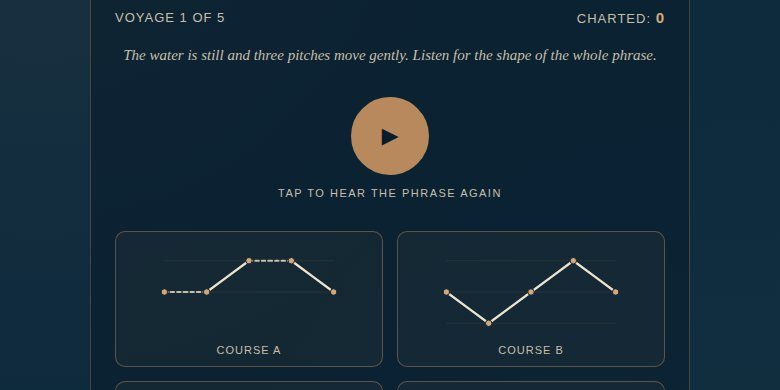
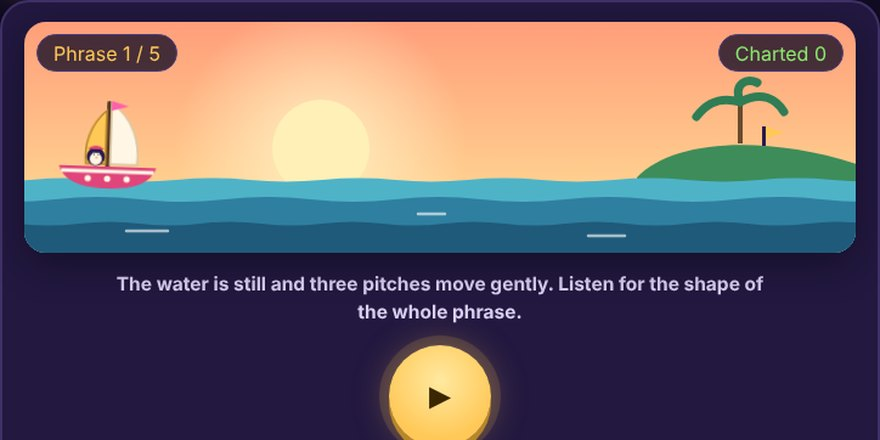
Restyle Charting the Melody to match the newer games
House style (night purple chrome, Bungee/Lilita One/Nunito, gold play
button), animated sea scene per voyage with a sailboat that advances on
each correct answer, contour options as cream sea-chart cards. Game
logic unchanged; em dashes removed from wording. Updated card screenshot.

Claude-Session: https://claude.ai/code/session_01Vt89E4KrajVwQZ7JitHWqg

diff --git a/games/charting-the-melody.html b/games/charting-the-melody.html
@@ -326,6 +326,104 @@
     .chart-panel { padding: 22px 16px 20px; }
   }
 </style>
+<link rel="preconnect" href="https://fonts.googleapis.com">
+<link rel="preconnect" href="https://fonts.gstatic.com" crossorigin>
+<link href="https://fonts.googleapis.com/css2?family=Bungee&family=Lilita+One&family=Nunito:wght@400;600;700;800;900&display=swap" rel="stylesheet">
+<style id="lum-house-style">
+:root{
+  --night:#120C24;--panel:#221840;--panel-2:#2C1F52;--line:#3F3168;
+  --ink-l:#F7EEDC;--ink-dim:#B3A7D1;--paper:#FFF6E6;--paper-ink:#2A1B4A;--paper-edge:#D9C7A3;
+  --lily:#8BEA6E;--gold:#FFC857;--pink:#FF5FA8;--orange:#FFA45B;--cyan:#6FE3FF;
+  --arcade:'Bungee','Lilita One',Impact,system-ui,sans-serif;
+  --display:'Lilita One','Arial Rounded MT Bold',system-ui,sans-serif;
+  --body:'Nunito',system-ui,-apple-system,'Segoe UI',sans-serif;
+  /* old variable names, remapped so inline SVG keeps working */
+  --brass:#2A1B4A;--brass-bright:#FFC857;--parchment:#2A1B4A;--parchment-soft:#8F7FB5;--navy-deep:#2A1B4A;
+}
+body{background:radial-gradient(ellipse at 50% -15%,#2C1F52 0%,#120C24 58%) fixed,#120C24 !important;color:var(--ink-l);font-family:var(--body) !important}
+.wrap{max-width:760px !important;padding:30px 18px 60px !important}
+.site-back{position:fixed;top:14px;left:14px;z-index:9999;font:800 13px/1 var(--body);color:var(--ink-dim);text-decoration:none;background:rgba(18,12,36,.8);border:1px solid var(--line);border-radius:999px;padding:8px 14px}
+.site-back:hover{color:var(--ink-l)}
+
+.masthead{border:0 !important;padding:0 !important;margin:10px 0 18px !important}
+.masthead .eyebrow{font-family:var(--body);font-weight:900;font-size:12px;letter-spacing:.32em !important;color:var(--cyan) !important;text-shadow:0 0 12px rgba(111,227,255,.5)}
+.masthead h1{font-family:var(--arcade) !important;font-weight:400 !important;font-size:clamp(34px,6.4vw,58px) !important;line-height:.95;margin:8px 0 6px !important;background:linear-gradient(180deg,#FFF1B8 0%,#FFC857 50%,#FF9A3D 100%);-webkit-background-clip:text;background-clip:text;color:transparent !important;filter:drop-shadow(0 4px 0 #1B0F3A) drop-shadow(0 0 18px rgba(255,200,87,.35))}
+.masthead h1 span{display:block;font-size:.62em;background:linear-gradient(180deg,#D9FBFF 0%,#6FE3FF 50%,#4FA3FF 100%);-webkit-background-clip:text;background-clip:text}
+.masthead .sub{color:var(--ink-dim);font-size:15px;margin:0}
+
+.level-rail{display:grid !important;grid-template-columns:repeat(4,1fr);gap:10px !important;margin-bottom:16px !important}
+.level-pip{min-width:0 !important;background:var(--panel-2) !important;border:2px solid var(--line) !important;border-radius:16px !important;padding:10px 12px !important;color:var(--ink-l);font-family:var(--body)}
+.level-pip .lvl-num{font-family:var(--arcade);font-size:10px !important;letter-spacing:.08em !important;color:var(--cyan) !important;opacity:1 !important}
+.level-pip .lvl-name{font-family:var(--display) !important;font-weight:400 !important;font-size:16px !important;color:var(--ink-l) !important}
+.level-pip.active{border-color:var(--gold) !important;box-shadow:0 10px 26px -8px rgba(255,200,87,.7)}
+.level-pip.locked{opacity:.45 !important}
+.level-pip .charted-mini{background:var(--lily) !important;color:#14361A !important;border:2px solid var(--night) !important}
+
+.chart-panel{background:var(--panel) !important;border:2px solid var(--line) !important;border-radius:24px !important;padding:16px 18px 22px !important;box-shadow:0 20px 60px rgba(0,0,0,.45)}
+
+/* sea scene */
+.sea{position:relative;height:190px;border-radius:18px;overflow:hidden;margin:0 0 14px;box-shadow:inset 0 0 0 2px rgba(255,255,255,.06),0 10px 30px rgba(0,0,0,.35)}
+.sea svg.scene{position:absolute;inset:0;width:100%;height:100%;display:block}
+.sea .hud{position:absolute;top:10px;left:10px;right:10px;display:flex;justify-content:space-between;gap:8px;z-index:4}
+.sea .pill{background:rgba(18,12,36,.78);border:1px solid #4A3B7C;color:var(--ink-l);font-family:var(--display);font-size:16px;padding:5px 13px 4px;border-radius:999px}
+.sea .pill.gold{color:var(--gold)}
+.sea .pill.lily{color:var(--lily)}
+.boat{position:absolute;bottom:22%;z-index:3;width:92px;transform:translateX(-50%);transition:left 1.1s cubic-bezier(.45,.05,.35,1)}
+.boat svg{display:block;width:100%;height:auto;animation:bob 2.6s ease-in-out infinite;transform-origin:50% 90%}
+@keyframes bob{0%,100%{transform:translateY(0) rotate(-2deg)}50%{transform:translateY(-5px) rotate(2deg)}}
+.wave-a{animation:swell 6s ease-in-out infinite alternate}
+.wave-b{animation:swell 8s ease-in-out infinite alternate-reverse}
+@keyframes swell{from{transform:translateX(-24px)}to{transform:translateX(24px)}}
+.twinkle{animation:tw 3s ease-in-out infinite}
+@keyframes tw{0%,100%{opacity:.25}50%{opacity:1}}
+.beam{animation:beam 4s ease-in-out infinite}
+@keyframes beam{0%,100%{opacity:.35}50%{opacity:1}}
+
+/* text + controls */
+.stat-row{display:none !important}
+.chart-brief{font-family:var(--body) !important;font-style:normal !important;font-weight:700;color:#D9CFF0 !important;font-size:15.5px !important;margin:4px auto 14px !important;max-width:560px}
+.briefing-label{color:var(--ink-dim) !important;font-weight:700}
+.ref-chip{background:var(--paper) !important;color:var(--paper-ink) !important;border:0 !important;font-family:var(--display);font-weight:400 !important;font-size:17px !important;padding:9px 20px 7px !important;box-shadow:0 4px 0 var(--paper-edge)}
+.ref-chip:hover{background:#FFF1BF !important}
+.ref-chip:active{transform:translateY(3px);box-shadow:0 1px 0 var(--paper-edge)}
+.listen-zone{padding:2px 0 14px !important;gap:8px !important}
+.play-btn{width:84px !important;height:84px !important;border:0 !important;background:radial-gradient(circle at 50% 35%,#FFE9A0,#FFC857 70%) !important;color:#3A2600 !important;font-size:30px !important;box-shadow:0 6px 0 #B8862A,0 0 0 8px rgba(255,200,87,.14),0 0 30px rgba(255,200,87,.35) !important}
+.play-btn:hover{background:radial-gradient(circle at 50% 35%,#FFF1BF,#FFD67A 70%) !important;color:#3A2600 !important}
+.play-btn:active{transform:translateY(4px) !important;box-shadow:0 2px 0 #B8862A !important}
+.play-label{font-family:var(--display);text-transform:none !important;letter-spacing:.01em !important;font-size:16px !important;color:var(--ink-dim) !important}
+
+/* contour cards: cream sea-chart paper */
+.contour-grid{gap:14px !important}
+.contour-card{position:relative;background:var(--paper) !important;border:3px solid transparent !important;border-radius:18px !important;box-shadow:0 5px 0 var(--paper-edge);padding:26px 10px 10px !important;overflow:hidden}
+.contour-card::before{content:"";position:absolute;inset:0;background:
+   repeating-linear-gradient(0deg,rgba(79,163,255,.07) 0 1px,transparent 1px 18px),
+   repeating-linear-gradient(90deg,rgba(79,163,255,.07) 0 1px,transparent 1px 18px);pointer-events:none}
+.contour-card:hover:not(.locked-card){transform:translateY(-3px) !important;background:#FFFBF1 !important;border-color:var(--gold) !important}
+.contour-card svg{position:relative}
+.contour-card .card-label{position:absolute;top:8px;left:10px;font-family:var(--arcade) !important;font-size:11px !important;letter-spacing:.06em !important;color:#fff !important;background:var(--paper-ink);border-radius:7px;padding:3px 8px 1px}
+.contour-card.selected{border-color:var(--gold) !important}
+.contour-card.correct-card{border-color:#3FBF6A !important;background:#ECFCE6 !important;box-shadow:0 5px 0 #8FD39E,0 0 0 4px rgba(139,234,110,.3)}
+.contour-card.correct-card .card-label{background:#23854A}
+.contour-card.wrong-card{border-color:#E0457B !important;background:#FFEDF2 !important;box-shadow:0 5px 0 #F2A7BF}
+.contour-card.wrong-card .card-label{background:#D2386C}
+.contour-card.correct-card::after{content:"✓";position:absolute;top:4px;right:10px;font:400 22px var(--display);color:#23854A}
+.contour-card.wrong-card::after{content:"✕";position:absolute;top:4px;right:10px;font:400 20px var(--display);color:#D2386C}
+
+.feedback-line{font-family:var(--display);font-style:normal !important;font-size:20px !important;color:var(--ink-l) !important;margin-top:10px !important}
+.feedback-line.good{color:var(--lily) !important}
+.feedback-line.bad{color:#FF8FB8 !important}
+button.chart-btn{font-family:var(--display) !important;font-weight:400 !important;font-size:19px !important;text-transform:none !important;letter-spacing:.01em !important;border-radius:999px !important;padding:12px 30px 10px !important;background:linear-gradient(180deg,#FFE9A0,#FFC857) !important;color:#3A2600 !important;box-shadow:0 5px 0 #B8862A,0 0 24px rgba(255,200,87,.25)}
+button.chart-btn:hover{background:linear-gradient(180deg,#FFF1BF,#FFD67A) !important}
+button.chart-btn:active{transform:translateY(3px) !important;box-shadow:0 2px 0 #B8862A}
+button.chart-btn.ghost{background:#3A2C62 !important;color:var(--ink-l) !important;box-shadow:0 4px 0 #0b0717}
+#setSailBtn{font-family:var(--arcade) !important;font-size:20px !important;letter-spacing:.05em !important;width:auto !important;padding:13px 40px 10px !important}
+.log-complete h2{font-family:var(--arcade) !important;font-weight:400;color:var(--gold) !important;font-size:30px !important;text-shadow:0 4px 0 #1B0F3A}
+.log-complete p{color:#D9CFF0 !important}
+.footer-note{color:var(--ink-dim) !important;opacity:1 !important}
+@media (max-width:560px){.level-rail{grid-template-columns:repeat(2,1fr)}.sea{height:160px}.boat{width:74px}}
+@media (prefers-reduced-motion:reduce){.boat svg,.wave-a,.wave-b,.twinkle,.beam{animation:none}}
+</style>
+
 <!-- SEO -->
 <link rel="canonical" href="https://levelupmusicianship.com/games/charting-the-melody">
 <meta property="og:type" content="website">
@@ -374,17 +472,19 @@
 <!-- /SEO -->
 </head>
 <body>
-<a href="../games.html" style="position:fixed;top:14px;left:14px;z-index:9999;font-family:'Source Sans 3',sans-serif;font-size:13px;font-weight:600;color:#fff;background:rgba(0,0,0,0.45);padding:7px 14px;border-radius:100px;text-decoration:none;backdrop-filter:blur(4px);">&larr; Level Up Musicianship</a>
+<a class="site-back" href="../games.html">&larr; Level Up Musicianship</a>
 <div class="wrap">
 
   <div class="masthead">
-    <p class="eyebrow">A melodic dictation voyage</p>
-    <h1>Charting the Melody</h1>
+    <p class="eyebrow">Melodic contour &middot; Year 8</p>
+    <h1>Charting<span>the Melody</span></h1>
+    <p class="sub">Hear the phrase, then pick the course that matches its shape.</p>
   </div>
 
   <div class="level-rail" id="levelRail"></div>
 
   <div class="chart-panel" id="chartPanel">
+    <div class="sea" id="seaScene"></div>
     <div class="stat-row" id="statRow" style="display:none;">
       <span id="statLeft">Voyage 1 of 5</span>
       <span>Charted: <span class="score-num" id="scoreNum">0</span></span>
@@ -419,7 +519,7 @@
     </div>
   </div>
 
-  <p class="footer-note">Synthesised tones &mdash; no files, no installs.<br>A companion piece to Chord Detectives in the Level Up Musicianship library.</p>
+  <p class="footer-note">Synthesised tones. No files, no installs.<br>A companion piece to Chord Detectives in the Level Up Musicianship library.</p>
 
 </div>
 
@@ -485,12 +585,12 @@
     {
       id: 3, name: 'Reading the Stars', voyages: 6,
       scale: 'pentatonic', order: ['d','r','m','s','l'], noteCount: 6,
-      brief: 'A longer course to chart \u2014 now five different pitches, but more moves to follow in one phrase.'
+      brief: 'A longer course to chart. Now five different pitches, but more moves to follow in one phrase.'
     },
     {
       id: 4, name: 'Open Ocean', voyages: 8,
       scale: 'diatonic', order: ['d','r','m','f','s','l','t','d2'], noteCount: 6,
-      brief: 'Full open water, chart your course with all eight pitches. Some dots will sit close together \u2014 listen carefully to the distance between notes, don\u2019t let your eye get tricked.'
+      brief: 'Full open water, chart your course with all eight pitches. Some dots will sit close together, so listen carefully to the distance between notes, don\u2019t let your eye get tricked.'
     }
   ];
 
@@ -699,7 +799,7 @@
       seenLevels.add(val);
       const norm = (val - minH) / range;
       const y = (h - padY) - norm * (h - padY * 2);
-      gridlines += `<line x1="${padX}" y1="${y.toFixed(1)}" x2="${w - padX}" y2="${y.toFixed(1)}" stroke="var(--brass)" stroke-width="1" opacity="0.12"/>`;
+      gridlines += `<line x1="${padX}" y1="${y.toFixed(1)}" x2="${w - padX}" y2="${y.toFixed(1)}" stroke="#4FA3FF" stroke-width="1" opacity="0.35" stroke-dasharray="2,4"/>`;
     });
 
     // every segment is either "held" (same pitch, dashed) or "moved"
@@ -713,15 +813,15 @@
       const isSame = label === 'same';
       const mx = (x0 + x1) / 2, my = (y0 + y1) / 2;
       let stroke, width, dash;
-      if (isSame) { stroke = 'var(--parchment-soft)'; width = 2; dash = '4,3'; }
-      else { stroke = 'var(--parchment)'; width = 2.5; dash = 'none'; }
+      if (isSame) { stroke = '#8F7FB5'; width = 3; dash = '5,4'; }
+      else { stroke = '#2A1B4A'; width = 3.5; dash = 'none'; }
       const dashAttr = dash !== 'none' ? ` stroke-dasharray="${dash}"` : '';
       segments += `<path d="M ${x0.toFixed(1)} ${y0.toFixed(1)} Q ${x0.toFixed(1)} ${y0.toFixed(1)} ${mx.toFixed(1)} ${my.toFixed(1)} Q ${x1.toFixed(1)} ${y1.toFixed(1)} ${x1.toFixed(1)} ${y1.toFixed(1)}" fill="none" stroke="${stroke}" stroke-width="${width}" stroke-linecap="round"${dashAttr}/>`;
     }
 
     let dots = '';
     pts.forEach(p => {
-      dots += `<circle cx="${p[0].toFixed(1)}" cy="${p[1].toFixed(1)}" r="3.5" fill="var(--brass-bright)" stroke="var(--navy-deep)" stroke-width="1"/>`;
+      dots += `<circle cx="${p[0].toFixed(1)}" cy="${p[1].toFixed(1)}" r="5.5" fill="#FFC857" stroke="#2A1B4A" stroke-width="2"/>`;
     });
 
     return `<svg viewBox="0 0 ${w} ${h}" xmlns="http://www.w3.org/2000/svg">
@@ -729,6 +829,77 @@
       ${segments}
       ${dots}
     </svg>`;
+  }
+
+
+  /* ===== house-style sea scene ===== */
+  const seaEl = document.getElementById('seaScene');
+  let charted = 0;
+  function seaSVG(levelIdx){
+    const P = [
+      {s1:'#FF9E7A',s2:'#FFCF8F',s3:'#FFE9B8',sea1:'#4FB3C8',sea2:'#2F7FA0',sea3:'#1F5A7A',isl:'#3E8C5A',sun:'day'},
+      {s1:'#5EC3E8',s2:'#A8E3F0',s3:'#E9F8F6',sea1:'#3C9CC4',sea2:'#2A73A0',sea3:'#1B4E78',isl:'#3E8C5A',sun:'noon'},
+      {s1:'#120C24',s2:'#2C1F52',s3:'#4A2F6B',sea1:'#2B3F7A',sea2:'#1E2C5E',sea3:'#141E44',isl:'#1E2C3E',sun:'stars'},
+      {s1:'#0B0A1E',s2:'#1C1A44',s3:'#2E2B66',sea1:'#24356E',sea2:'#18244F',sea3:'#0F183A',isl:'#18223A',sun:'light'}
+    ][levelIdx] || null;
+    const c = P;
+    let o = `<svg class="scene" viewBox="0 0 1000 190" preserveAspectRatio="xMaxYMax slice" xmlns="http://www.w3.org/2000/svg">
+      <defs><linearGradient id="sk" x1="0" y1="0" x2="0" y2="1"><stop offset="0" stop-color="${c.s1}"/><stop offset=".7" stop-color="${c.s2}"/><stop offset="1" stop-color="${c.s3}"/></linearGradient>
+      <linearGradient id="bm" x1="1" y1="0" x2="0" y2="0"><stop offset="0" stop-color="#FFF4C8" stop-opacity=".55"/><stop offset="1" stop-color="#FFF4C8" stop-opacity="0"/></linearGradient><radialGradient id="gl"><stop offset="0" stop-color="#FFF4C8" stop-opacity=".9"/><stop offset="1" stop-color="#FFF4C8" stop-opacity="0"/></radialGradient></defs>
+      <rect width="1000" height="190" fill="url(#sk)"/>`;
+    if (c.sun === 'day') o += `<circle cx="560" cy="104" r="120" fill="url(#gl)"/><circle cx="560" cy="104" r="40" fill="#FFF0B8"/>`;
+    if (c.sun === 'noon') o += `<circle cx="520" cy="44" r="90" fill="url(#gl)"/><circle cx="520" cy="44" r="26" fill="#FFF6CF"/><g fill="#fff" opacity=".85"><ellipse cx="700" cy="60" rx="56" ry="13"/><ellipse cx="735" cy="50" rx="34" ry="13"/><ellipse cx="380" cy="70" rx="44" ry="10"/></g>`;
+    if (c.sun === 'stars' || c.sun === 'light') {
+      let seed = 7 + levelIdx;
+      const rnd = () => (seed = (seed * 9301 + 49297) % 233280) / 233280;
+      for (let k = 0; k < 40; k++) o += `<circle class="twinkle" style="animation-delay:${(-rnd()*3).toFixed(2)}s" cx="${(rnd()*1000).toFixed(0)}" cy="${(rnd()*100).toFixed(0)}" r="${(rnd()*1.4+.5).toFixed(1)}" fill="#FFF6E6"/>`;
+      if (c.sun === 'stars') o += `<g stroke="#6FE3FF" stroke-width="1.2" opacity=".55" fill="#BFF4FF"><path d="M440,40 L480,30 L520,50 L560,38 L592,62" fill="none"/><circle cx="440" cy="40" r="2.6"/><circle cx="480" cy="30" r="2.6"/><circle cx="520" cy="50" r="2.6"/><circle cx="560" cy="38" r="2.6"/><circle cx="592" cy="62" r="2.6"/></g><circle cx="740" cy="64" r="60" fill="url(#gl)" opacity=".25"/><path d="M748,47 A18,18 0 1 0 757,74 A15,15 0 1 1 748,47Z" fill="#FFF1C4"/>`;
+    }
+    // goal island
+    o += `<path d="M820,128 C850,96 930,92 1010,120 L1010,140 L820,140Z" fill="${c.isl}"/>`;
+    if (c.sun === 'light') o += `<g transform="translate(910 62)"><path class="beam" d="M0,-2 L-300,-40 L-300,36Z" fill="url(#bm)"/><rect x="-7" y="0" width="14" height="44" fill="#F2E6D8"/><rect x="-7" y="10" width="14" height="6" fill="#E0457B"/><rect x="-7" y="26" width="14" height="6" fill="#E0457B"/><rect x="-10" y="-8" width="20" height="9" rx="2" fill="#2A1B4A"/><circle cx="0" cy="-4" r="4" fill="#FFE27A"/></g>`;
+    else o += `<g transform="translate(905 100)"><rect x="-2" y="-34" width="4" height="34" fill="#6A4A2E"/><path d="M0,-34 C-20,-40 -30,-30 -36,-22 M0,-34 C18,-44 30,-36 36,-26 M0,-34 C-6,-50 6,-54 14,-50" stroke="#2F7D55" stroke-width="7" fill="none" stroke-linecap="round"/><rect x="18" y="-14" width="3" height="16" fill="#2A1B4A"/><path d="M21,-14 L36,-9 L21,-4Z" fill="#FFC857"/></g>`;
+    // sea layers
+    const amp = levelIdx === 0 ? 4 : levelIdx === 1 ? 9 : 7;
+    const wave = (y, a, len) => { let d = `M-60,${y}`; for (let x = -60; x < 1080; x += len) d += ` q${len/4},${-a} ${len/2},0 t${len/2},0`; return d + ` L1080,190 L-60,190Z`; };
+    o += `<path class="wave-b" d="${wave(130, amp*.7, 120)}" fill="${c.sea1}"/>`;
+    o += `<path class="wave-a" d="${wave(146, amp, 140)}" fill="${c.sea2}"/>`;
+    o += `<path class="wave-b" d="${wave(166, amp*.8, 100)}" fill="${c.sea3}"/>`;
+    o += `<g stroke="#fff" stroke-width="2.5" stroke-linecap="round" opacity="${c.sun === 'stars' || c.sun === 'light' ? .25 : .6}"><path d="M120,156 h26 M400,172 h34 M640,158 h22 M780,176 h30"/></g>`;
+    return o + `</svg>`;
+  }
+  function boatSVG(night){
+    return `<svg viewBox="0 0 92 84" xmlns="http://www.w3.org/2000/svg">
+      <rect x="44" y="6" width="3.5" height="56" rx="1.5" fill="#5B3A29"/>
+      <path d="M48,8 C66,20 72,40 70,58 L48,58Z" fill="#FFF6E6" stroke="#D9C7A3" stroke-width="1.5"/>
+      <path d="M44,14 C30,26 26,44 28,58 L44,58Z" fill="#FFC857" stroke="#B8862A" stroke-width="1.5"/>
+      <path d="M48,6 L62,10 L48,14Z" fill="#FF5FA8"/>
+      <circle cx="36" cy="52" r="7.5" fill="#2A1B4A"/><circle cx="36" cy="54" r="5" fill="#FFF6E6"/>
+      <circle cx="34.5" cy="50" r="1.2" fill="#fff"/><circle cx="38" cy="50" r="1.2" fill="#fff"/>
+      <circle cx="34.5" cy="50.2" r=".6" fill="#2A1B4A"/><circle cx="38" cy="50.2" r=".6" fill="#2A1B4A"/>
+      <path d="M35,52.2 l1.6,1.8 l1.6,-1.8Z" fill="#FFA45B"/>
+      <path d="M29,46 Q36,40 43,46Z" fill="#E0457B"/>
+      ${night ? '<circle cx="78" cy="56" r="10" fill="#FFE27A" opacity=".25"/><circle cx="78" cy="56" r="3.5" fill="#FFE27A"/><line x1="72" y1="60" x2="78" y2="56" stroke="#5B3A29" stroke-width="2"/>' : ''}
+      <path d="M6,60 L86,60 C82,72 70,78 46,78 C22,78 10,72 6,60Z" fill="#E0457B"/>
+      <path d="M8,64 L84,64" stroke="#FFF6E6" stroke-width="3"/>
+      <circle cx="30" cy="70" r="2.6" fill="#FFF6E6"/><circle cx="46" cy="70" r="2.6" fill="#FFF6E6"/><circle cx="62" cy="70" r="2.6" fill="#FFF6E6"/>
+    </svg>`;
+  }
+  function renderSea(){
+    if (!seaEl) return;
+    const lvl = LEVELS[currentLevelIdx];
+    const total = lvl.voyages;
+    const pct = 10 + (charted / total) * 70;
+    const night = currentLevelIdx >= 2;
+    if (seaEl.dataset.level !== String(currentLevelIdx)) {
+      seaEl.innerHTML = seaSVG(currentLevelIdx) +
+        `<div class="hud"><span class="pill gold" id="seaVoy"></span><span class="pill lily" id="seaScore"></span></div>` +
+        `<div class="boat" id="seaBoat" style="left:${pct}%">${boatSVG(night)}</div>`;
+      seaEl.dataset.level = String(currentLevelIdx);
+    }
+    document.getElementById('seaVoy').textContent = 'Phrase ' + Math.min(voyageIndex + 1, total) + ' / ' + total;
+    document.getElementById('seaScore').textContent = 'Charted ' + score;
+    document.getElementById('seaBoat').style.left = pct + '%';
   }
 
   function renderLevelRail() {
@@ -757,7 +928,9 @@
     voyageIndex = 0;
     score = 0;
     lastPhraseKey = null;
+    charted = 0;
     chartBrief.textContent = lvl.brief;
+    renderSea();
     completeState.style.display = 'none';
     playState.style.display = 'none';
     statRow.style.display = 'none';
@@ -804,6 +977,8 @@
     playBtn.disabled = false;
     playLabel.textContent = 'Tap to hear the phrase again';
     nextQBtn.style.display = 'none';
+    feedbackLine.className = 'feedback-line';
+    renderSea();
 
     let phrase = generatePhrase(lvl);
     let key = indexKey(phrase.indices);
@@ -862,15 +1037,17 @@
     cardEl.classList.add('selected');
 
     const isCorrect = idx === correctOptionIdx;
-    if (isCorrect) score++;
+    if (isCorrect) { score++; charted++; }
     scoreNum.textContent = score;
+    renderSea();
+    feedbackLine.className = 'feedback-line ' + (isCorrect ? 'good' : 'bad');
 
     cards[correctOptionIdx].classList.add('correct-card');
     if (!isCorrect) cardEl.classList.add('wrong-card');
 
     feedbackLine.textContent = isCorrect
       ? 'Course charted true.'
-      : 'Not quite \u2014 the true course is marked.';
+      : 'Not quite. The true course is marked in green.';
     playLabel.textContent = 'Tap to hear the phrase again';
 
     nextQBtn.style.display = 'block';
@@ -902,7 +1079,7 @@
 
     completeTitle.textContent = passed ? 'Voyage complete' : 'Course incomplete';
     completeBody.textContent = 'You charted ' + score + ' of ' + lvl.voyages + ' phrases correctly.' +
-      (passed ? ' Well navigated \u2014 the next voyage awaits.' : ' Chart this voyage again before sailing onward.');
+      (passed ? ' Well navigated. The next voyage awaits.' : ' Chart this voyage again before sailing onward.');
 
     if (passed) {
       progress.stars[lvl.id] = true;
